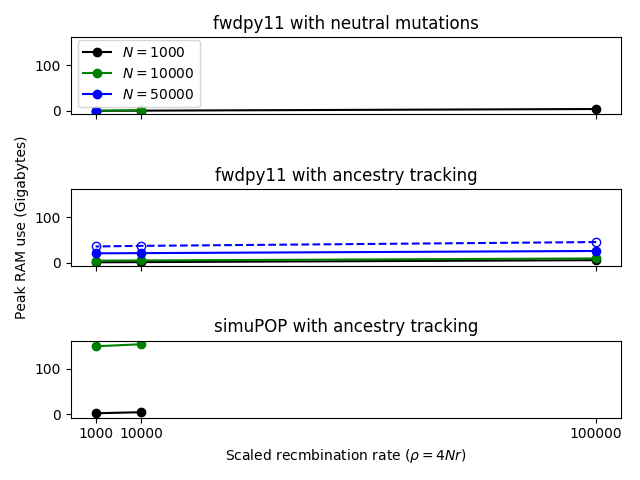
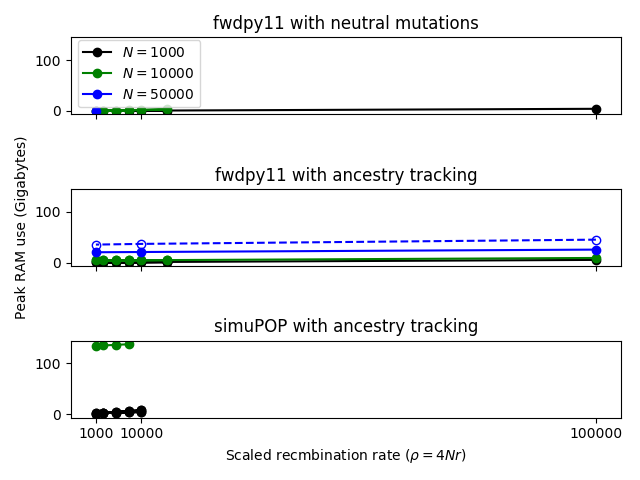
update plot script and remove  N=100 simupop results

diff --git a/sims/quick_plot.py b/sims/quick_plot.py
@@ -1,3 +1,5 @@
+import matplotlib
+matplotlib.use('Agg')
 import matplotlib.pyplot as plt
 import pandas as pd
 
@@ -9,6 +11,7 @@ fp11['engine'] = ['fwdpy11'] * len(fp11.index)
 
 data = pd.concat([spop, fp11])
 
+print(data.N.unique())
 lcolors = ['black', 'green', 'blue']
 colors = {}
 i = 0
@@ -28,14 +31,14 @@ for name, group in groups:
     m = 'o'
     if name[0] == 'simuPOP':
         ax = ax_simupop
-    mfacecolor = colors[name[3]]
+    mfacecolor = colors[name[4]]
     if name[2] is True:
         lstyle = 'dashed'
         mfacecolor = 'none'
-    popsize = int(name[3])
+    popsize = int(name[4])
     ax.plot(group.rho, group.time / (60.**2.), marker=m,
             ms=6, linestyle=lstyle, label=r'$N = {}$'.format(popsize),
-            color=colors[name[3]],
+            color=colors[name[4]],
             markerfacecolor=mfacecolor)
 
 ax_fwdpp.legend(loc='best')
@@ -61,14 +64,14 @@ for name, group in groups:
     m = 'o'
     if name[0] == 'simuPOP':
         ax = ax_simupop
-    mfacecolor = colors[name[3]]
+    mfacecolor = colors[name[4]]
     if name[2] is True:
         lstyle = 'dashed'
         mfacecolor = 'none'
-    popsize = int(name[3])
+    popsize = int(name[4])
     ax.plot(group.rho, group.mem / (1024.**2.), marker=m,
             ms=6, linestyle=lstyle, label=r'$N = {}$'.format(popsize),
-            color=colors[name[3]],
+            color=colors[name[4]],
             markerfacecolor=mfacecolor)
 
 ax_fwdpp.legend(loc='best')
